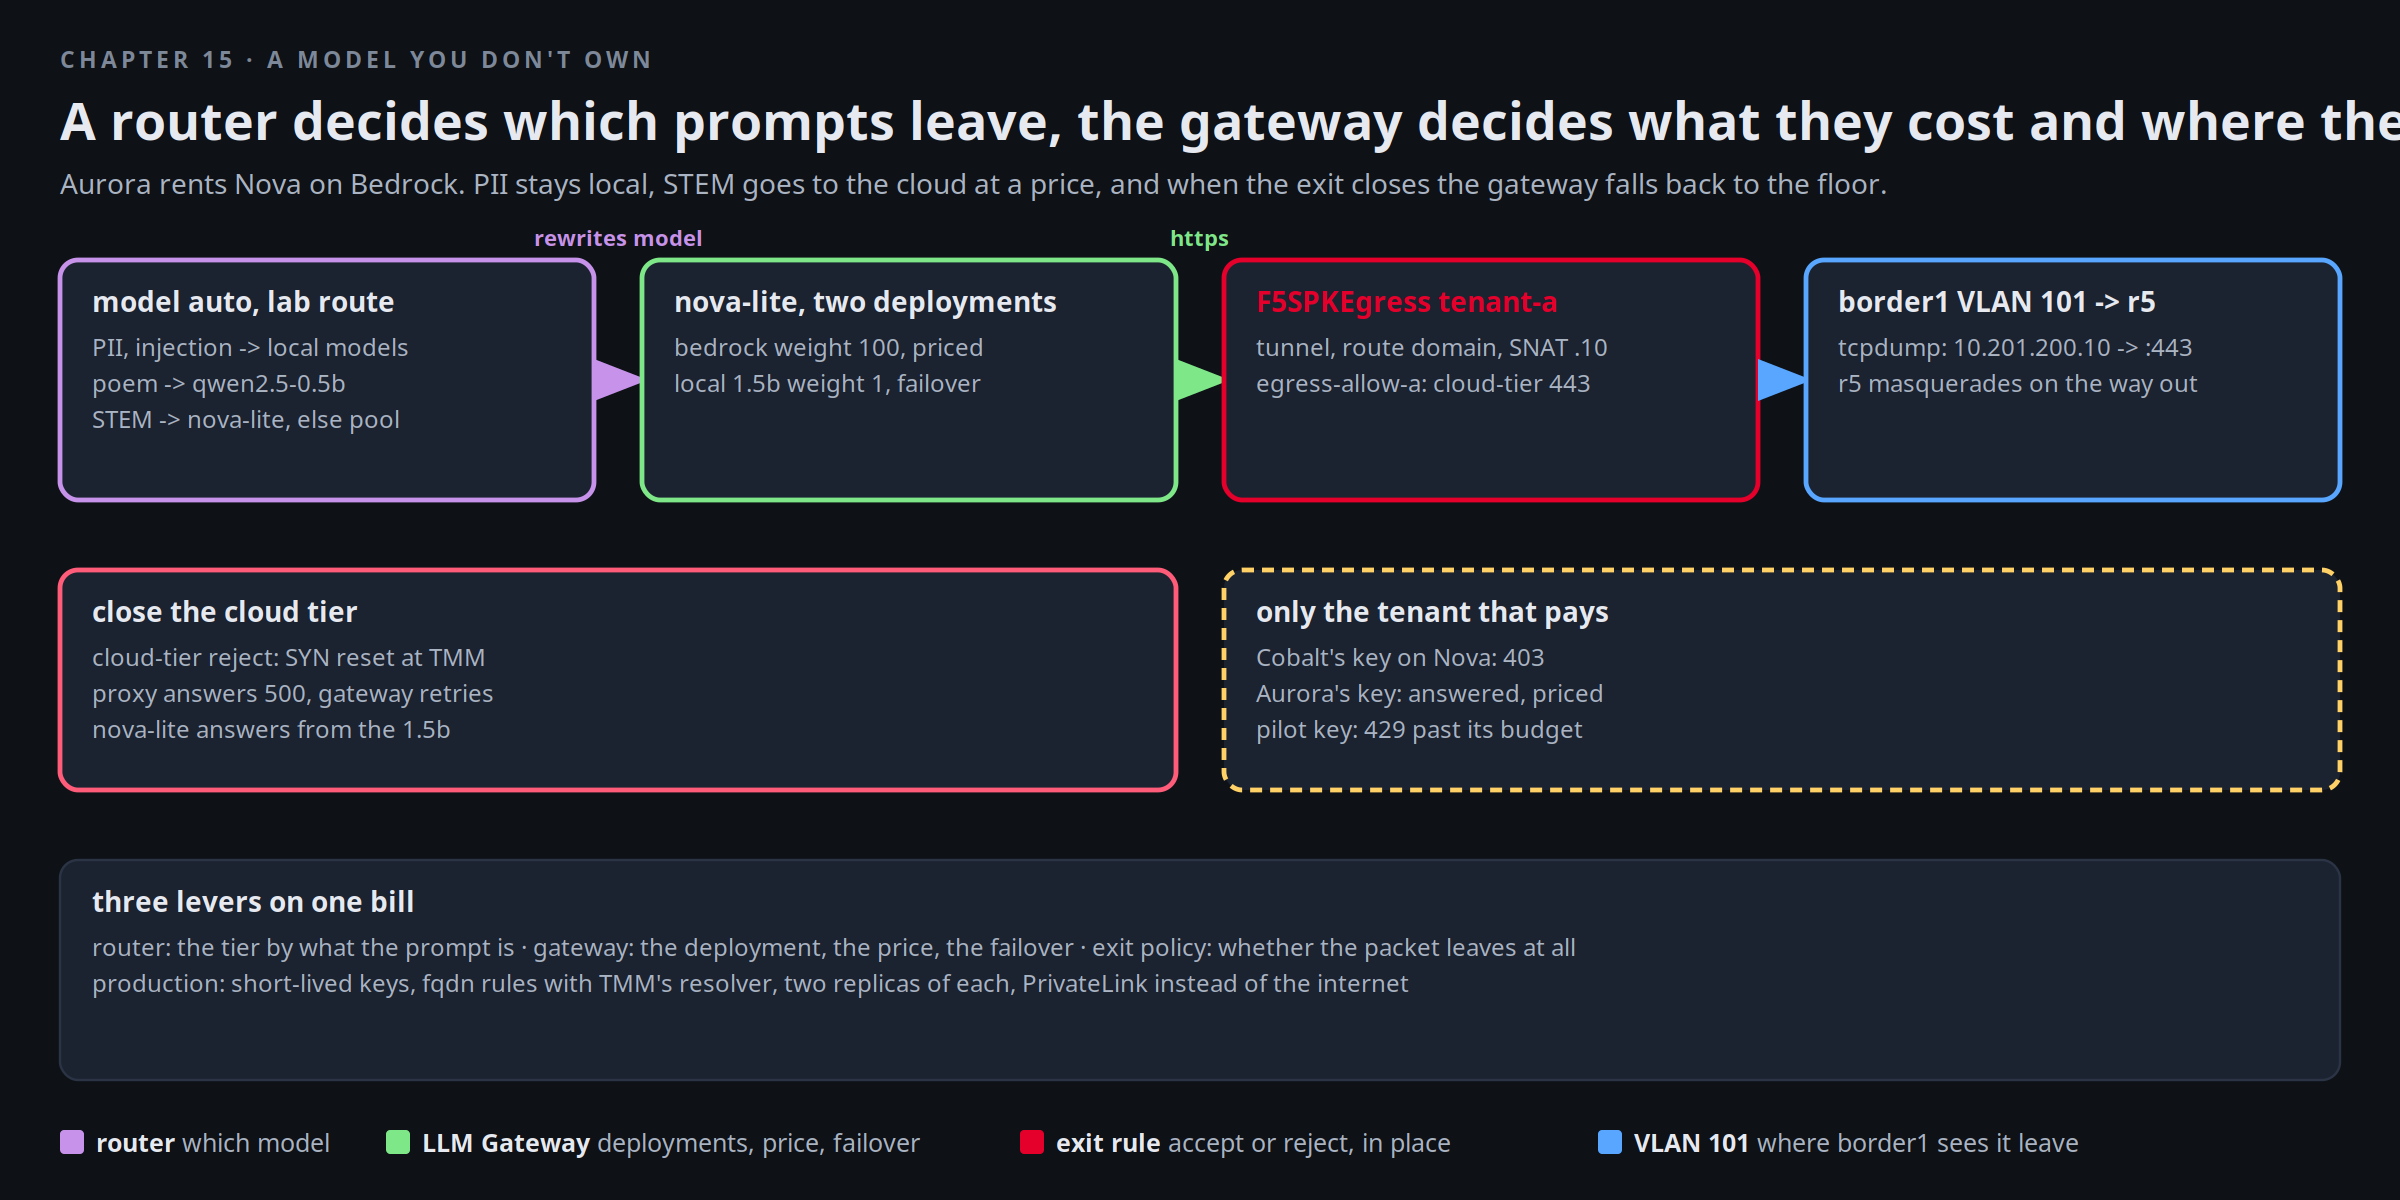
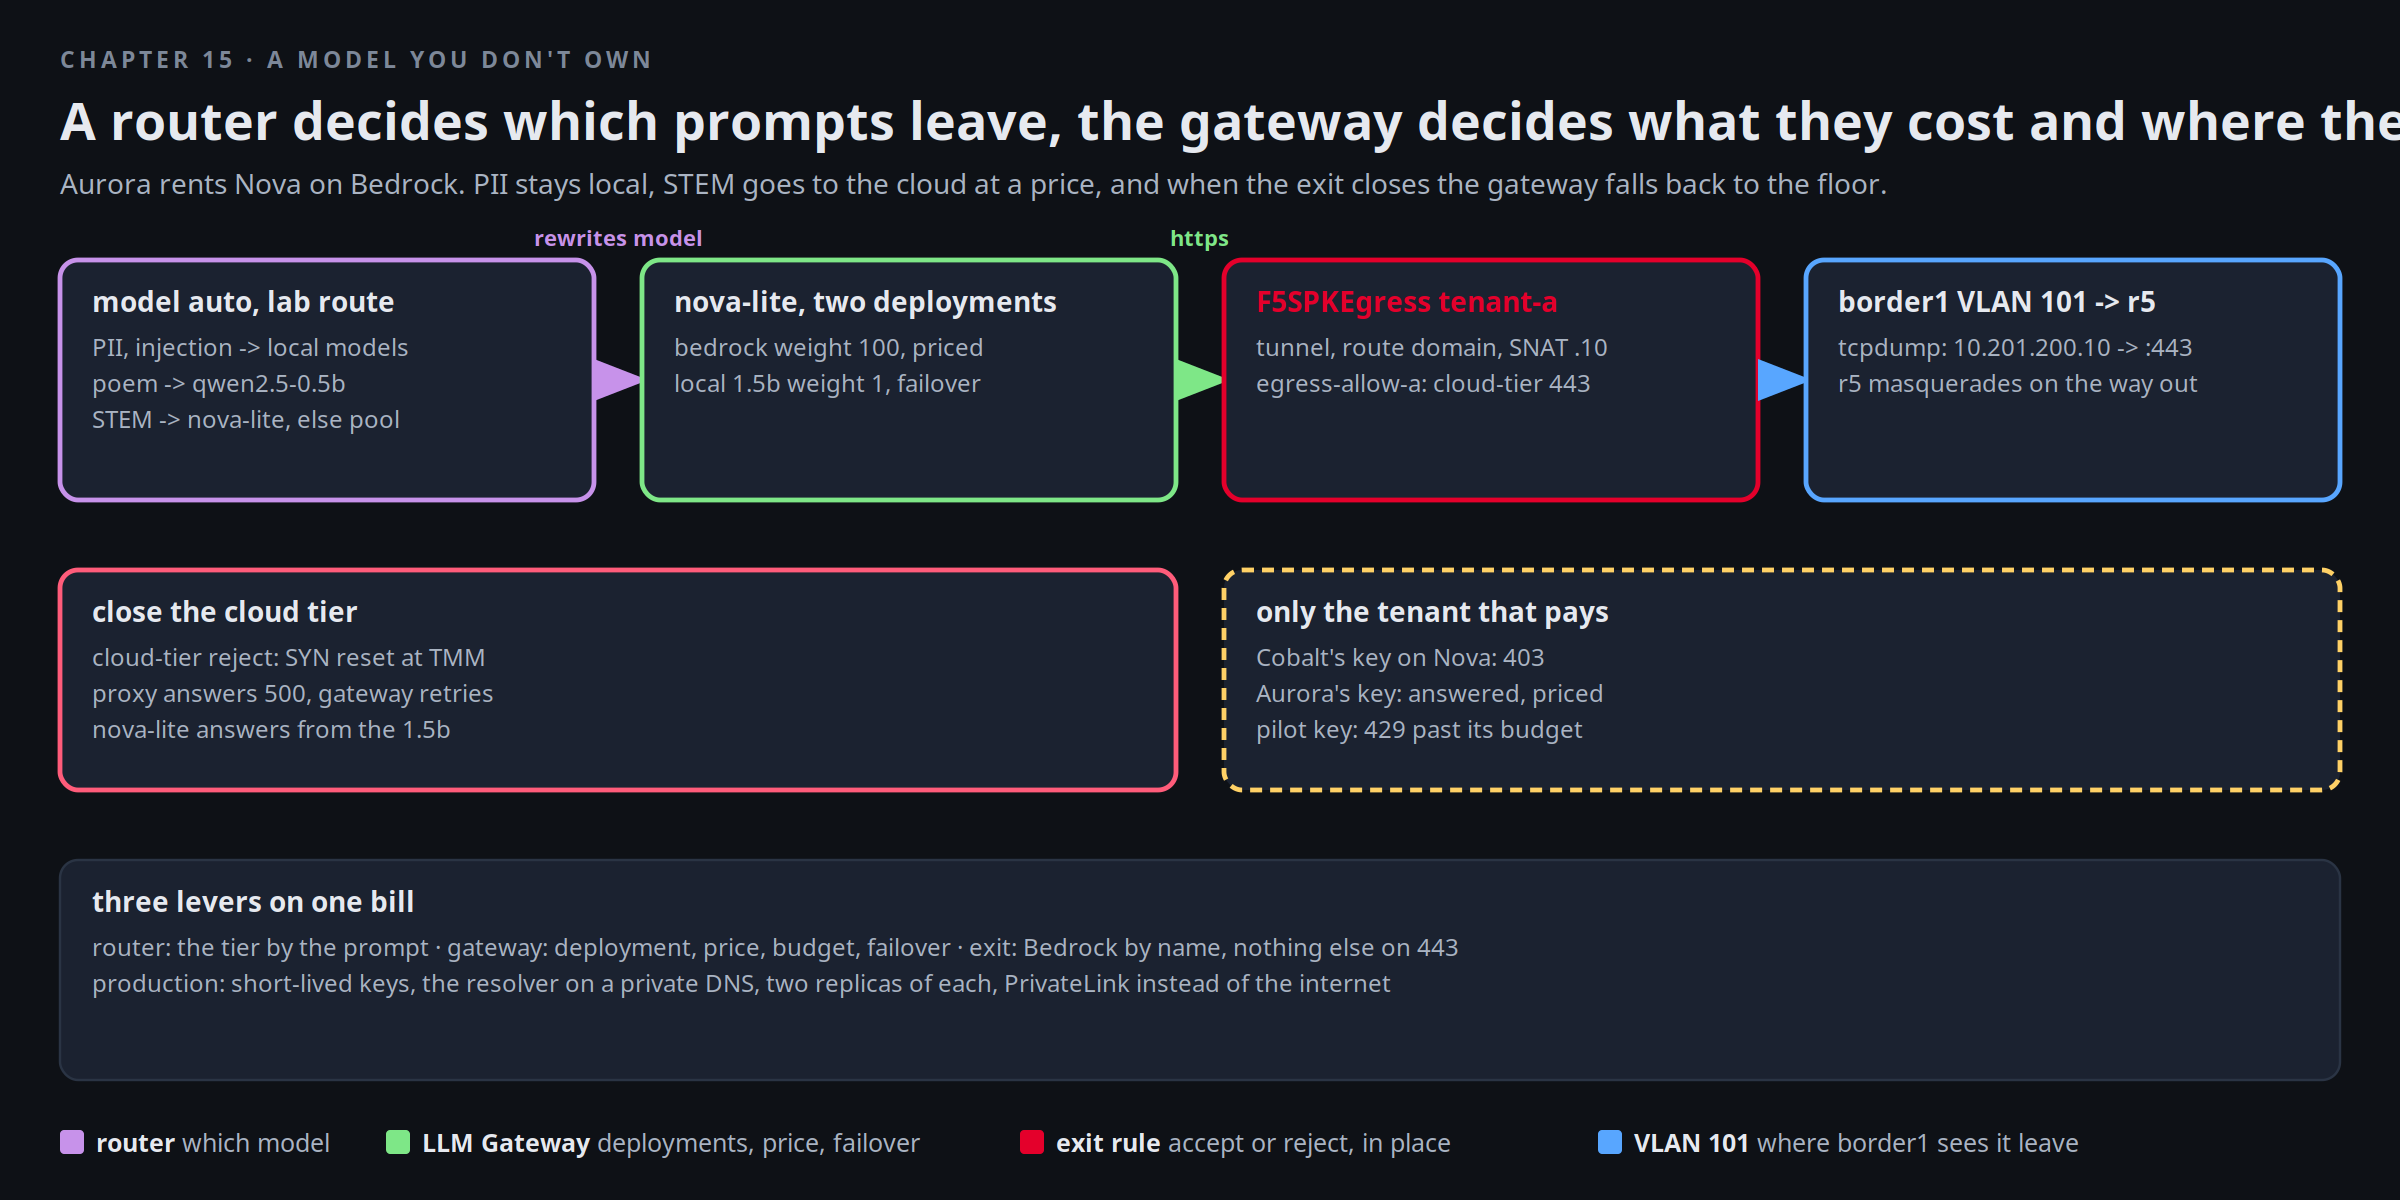
chapter 15 scene: three levers strip within the card width

Changed region(s): [[0.125, 0.7708, 0.6562, 0.8325]]

diff --git a/instruqt/bnk-ai-factory-clab/assets/scenes.py b/instruqt/bnk-ai-factory-clab/assets/scenes.py
@@ -350,7 +350,7 @@ def c15():
     s.row(B, BH, [("close the cloud tier", ["cloud-tier reject: SYN reset at TMM", "proxy answers 500, gateway retries", "nova-lite answers from the 1.5b"], {"color": PINK}),
                   ("only the tenant that pays", ["Cobalt's key on Nova: 403", "Aurora's key: answered, priced", "pilot key: 429 past its budget"], {"color": YELLOW, "dash": True})])
     s.strip(C, CH, "three levers on one bill",
-            ["router: the tier by what the prompt is · gateway: the deployment, the price, the budget, the failover · exit policy: Bedrock by name, nothing else on 443", "production: short-lived keys, the resolver on a private DNS, two replicas of each, PrivateLink instead of the internet"])
+            ["router: the tier by the prompt · gateway: deployment, price, budget, failover · exit: Bedrock by name, nothing else on 443", "production: short-lived keys, the resolver on a private DNS, two replicas of each, PrivateLink instead of the internet"])
     s.legend([(PURPLE, "router", "which model"), (GREEN, "LLM Gateway", "deployments, price, failover"), (RED, "exit rule", "accept or reject, in place"), (BLUE, "VLAN 101", "where border1 sees it leave")])
     s.save("scene-15.png")
 
